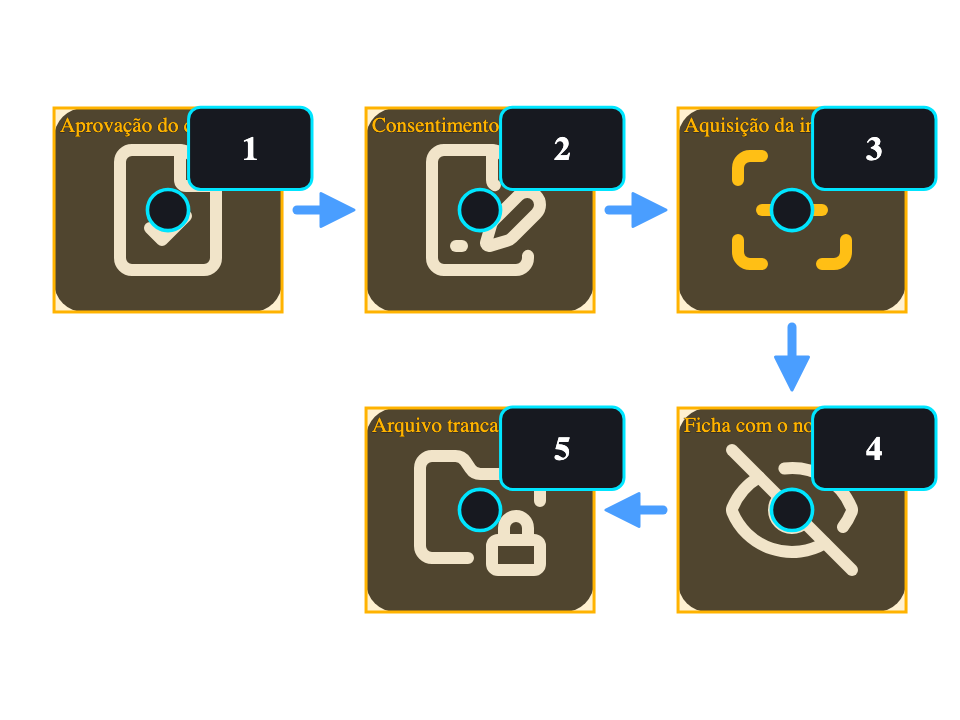
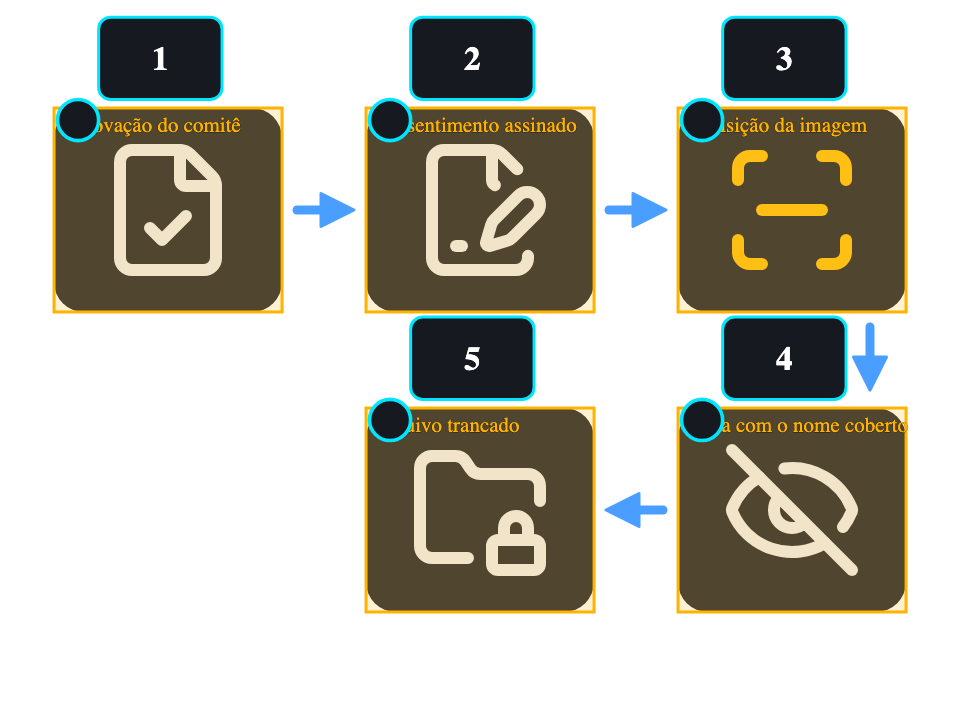
docs(figuras): parecer da fase 4, evidência corrigida e prévias refeitas

diff --git a/docs/evidence/2026-11-19-figuras/revisoes/fase-4.md b/docs/evidence/2026-11-19-figuras/revisoes/fase-4.md
@@ -1,0 +1,243 @@
+# Revisão independente da fase 4: três fluxos com ícones do Lucide (2026-11-21)
+
+Esta revisão foi feita por IA, e não por um profissional de radiologia nem por um advogado. Ela cobre os commits `e714a3a7` e `c338ee97`, sobre a base `502f445d`. Li tudo pelo git. Testei numa worktree destacada em `c338ee97`, com link simbólico de `radiant-app/node_modules`, removida ao fim.
+
+Li o brief do revisor, a gramática (`docs/content/2026-11-19-gramatica-de-graficos.md`), o parecer da fase 3 como régua de rigor e as decisões L1 a L5 (`decisoes-f4.md`).
+
+**Como medi:**
+- Os renders são meus, pelo Chrome, a 840 x 630 px (o quadro de 280 x 210 pt a 3x), sobre #171920.
+- Os selos, pontos e áreas de toque vêm das funções do próprio app (`labelBadgeBoxes`, `badgeBoxes`, `touchRect`, `LABEL_DOT` de `hotspotTouch.ts`), carregadas por `load-app-contract.cjs`.
+- A tinta foi contada por cor da paleta: `P.line` e `P.beam` para o ícone, `P.accent` para a seta.
+- Os scripts ficaram no meu rascunho, fora do repositório.
+
+## Vereditos
+
+| Figura | Veredito |
+|---|---|
+| `cadeia-de-custodia` (m31 aulas 3 e 4) | aprovada com correções a fazer (I1, I2, I3) |
+| `fluxo-de-pesquisa` (m31 aula 5) | aprovada com correções a fazer (I1, I3 no texto do crédito) |
+| `fluxo-ris-pacs` (m22 aulas 4 e 6) | aprovada com correções a fazer (I1, I3) |
+
+Contagem: 0 Críticos, 3 Importantes, 6 Menores. Há mais um ponto, anterior à fase e fora do escopo dela.
+
+## Gates (worktree em `c338ee97`, Node 20.20.2)
+
+- `rtg-lesson-lint.mjs`, arquivo por arquivo, nas 40 unidades: 40 de 40 com saída 0 (m22 e m31: `OK`).
+- `build-rtg-batches.mjs --check`: ok. `scripts/qa/figuras-no-simulador.mjs --check`: ok. `scripts/qa/generate-rtg-maestro.mjs --check` em m22 e m31: ok.
+- `node --test scripts/content/figuras/fluxos/*.test.mjs scripts/content/rtg-figuras.test.mjs`: 24 de 24.
+- Receita: rodei os três geradores (`node scripts/content/figuras/fluxos/<id>.mjs`) no checkout limpo. `git status` ficou limpo, então specs e alvos saem byte a byte.
+- `EXPO_NO_DOTENV=1 npx jest --runInBand src/ui/diagrams src/features/settings src/features/student-checkpoints src/features/lesson-flow`: 68 suítes e 1662 testes, todos passam.
+- Não rodei o `npm run quality` inteiro, o `visual:qa:strict`, `tsc` nem `eslint`.
+
+## Requisitos tardios L1 a L5
+
+### L1: quase conforme
+
+- `OPEN_LICENSE` (`scripts/content/rtg-figuras.mjs:12`) aceita `ISC`, ancorada, e só ela foi acrescentada.
+- O vermelho em `vermelho-f4.txt` é do defeito certo: `ISC` reprovada com "licença fora de CC0, domínio público e CC BY: ISC".
+- Conferi a outra metade: troquei a régua por uma versão sem âncora (`...)$|ISC`), e a asserção nova reprovou com `'ISC License'`. Depois restaurei o arquivo.
+- As três entradas estão em `figuras.json` e em `RTG_FIGURE_CREDITS`. A tela de créditos (`ImageCreditsScreen.tsx`) as lista pelo caminho de sempre.
+- Exceções: I3, M1 e M2.
+
+### L2: conforme
+
+- `vendor/lucide/` tem `LICENSE`, `README.md` e `icones.json`. Os geradores leem do repositório. Há `fluxos/README.md` e `fluxos/fluxos.test.mjs`.
+- O teste compara os sha256 com o README do próprio vendor, não com o pacote. Fiz essa conferência contra o pacote (abaixo).
+
+### L3: quase conforme
+
+- Os pontos e as regiões estão sobre os cartões.
+- As 15 frases `where` são verdadeiras sobre o desenho, e os `alt` não nomeiam respostas.
+- Os três rótulos da m31 foram renomeados, e as certas continuam "Livro de registro" e "Armário trancado".
+- O "Arquivo trancado" usa `folder-lock`.
+- O selo do `hotspot` fica fora da região e não recebe toque (`pointerEvents="none"`).
+- Exceção: no `label`, o selo e o ponto escondem justamente o detalhe que três `where` citam (I1).
+
+### L4: conforme
+
+- Os specs não têm `motion`, `keys` nem `poster`, e o teste dos fluxos barra isso.
+
+### L5: conforme
+
+- `git diff --name-only 502f445d c338ee97` não tem nenhum arquivo fora de `arquivos-do-run-f4-b.txt`.
+- `docs/STATUS.md`, os planos e o ADR não foram tocados.
+- As prévias, `fase-4.md` e o README das amostras estão atualizados.
+
+## Licença
+
+- **Página do Lucide.** Li https://lucide.dev/license. Ela traz:
+  - a ISC com "Copyright (c) 2026 Lucide Icons and Contributors";
+  - a lista dos ícones derivados do Feather;
+  - a MIT de Cole Bemis para essa lista.
+- **Pacote.** O `package.json` de `lucide-static@1.77.0` diz `"license": "ISC"` e `"version": "1.77.0"`. O `LICENSE` do pacote baixado é idêntico, byte a byte, a `vendor/lucide/LICENSE`.
+- **sha256.** Baixei os 13 SVG de `unpkg.com/lucide-static@1.77.0/icons/`. Os 13 sha256 batem com o `vendor/lucide/README.md`, e os 13 textos são iguais aos de `icones.json`. Os três `sha256Original` (concatenação na ordem do fluxo) também batem.
+- **Derivação do Feather.** Comparei com `feather-icons@4.29.2` (MIT, "Copyright (c) 2013-2023 Cole Bemis"). Quatro dos 13 ícones carregam desenho do Feather, embora não estejam nominalmente na lista (I3).
+
+## Fidelidade dos ícones
+
+- Os 13 grupos dos specs têm os mesmos elementos do original, com o texto de cada elemento idêntico (contagem e comparação de string, ícone a ícone).
+- O grupo leva os atributos do `<svg>` do Lucide: `fill="none"`, traço 2, pontas e junções redondas. Leva também `translate(centro - 24) scale(2)`.
+- Por render: os ícones originais, recoloridos e postos no mesmo lugar, contra a camada de ícones do spec, a 960 x 720. A diferença foi de 0 px nas três figuras (31.669, 28.935 e 29.113 px de tinta).
+- Só cor, escala e posição mudaram. Nada foi acrescentado ao ícone.
+
+## Achados
+
+### I1 (Importante): no `label`, o selo e o ponto escondem o detalhe que o `where` manda procurar
+
+- **Onde:** m22 aula 4 (`m22.json:1276-1311`), m31 aula 3 (`m31.json:910-945`) e m31 aula 5 (`m31.json:1658-1693`). Pontos no centro do ícone: x 0,175, 0,5 e 0,825; y 0,2917 e 0,7083.
+- **O que está errado:** o ponto de 12 pt fica no centro do ícone. O selo opaco de 36 x 24 pt fica acima e à direita do ponto, encostado (`labelBadgeBoxes`), e cobre o quadrante superior direito do ícone.
+- **Tinta de ícone sob selo e ponto, medida por cor:**
+
+  | Figura | Cartão a cartão |
+  |---|---|
+  | `fluxo-ris-pacs` | 16,3%, 20,2%, 17,3%, 17,1% e 21,4% |
+  | `cadeia-de-custodia` | 20,7%, 18,2%, 33,2%, 21,8% e 10,5% |
+  | `fluxo-de-pesquisa` | 16,9%, 9,5%, 33,2%, 21,7% e 10,5% |
+
+- **Detalhes nomeados pelo `where` que ficam cobertos** (fração geométrica, em unidades do ícone):
+  - "o caderno com **uma caneta**" (Livro de registro): quase toda a caneta fica sob o selo 4, e a ponta fica sob o ponto.
+  - "a tela com **um visto**" (Estação de visualização): cerca de 80% do visto fica sob o ponto. Sobra uma ponta de uns 3 pt.
+  - "o quadro âmbar com **uma linha no meio**" (Aquisição da imagem, duas aulas): 69% da linha fica sob o ponto, e o canto superior direito do quadro fica sob o selo 3. É o cartão mais coberto (33,2%).
+  - "a folha com um visto" (Aprovação do comitê): metade do visto e a dobra da folha ficam cobertas.
+- **O que a evidência mediu:** a evidência (`fase-4.md:36`) mediu selo contra cartão e seta ("75% do próprio cartão, 0% de outro cartão"). Não mediu selo contra ícone. O `relatorio.md` reconhece o ponto sobre o centro, mas não o selo.
+- **Cenário:** o leitor de tela fala "Ponto 4, embaixo à direita, o caderno com uma caneta". Quem olha vê um caderno sem caneta sob um selo escuro. O ícone vira um palpite, e a ordem das setas é que decide.
+- **Correção sugerida (medida por mim, só geometria):**
+  - Pôr cada ponto no canto superior esquerdo do cartão, em (x+8, y+4) unidades do quadro: (0,0813; 0,1667), (0,4063; 0,1667), (0,7312; 0,1667), (0,7312; 0,5833) e (0,4063; 0,5833), nas três aulas.
+  - O ponto fica sobre o cartão e fora do ícone. O ponto continua sobre a caixa do alvo.
+  - Os selos do app vão para fora dos cartões: no alto, em y 5,7 a 33,2; embaixo, em y 105,7 a 133,1, no vão entre as fileiras. Nenhum toca um ícone.
+  - A área de toque de 44 pt fica com uns 38% de cartão e o resto de fundo, sem tocar outro cartão.
+  - O selo do cartão 4 passa a cruzar a seta vertical (x 240,8 a 282). Por isso essa correção vai junto com a de I2.
+  - Meça de novo por pixel depois.
+
+### I2 (Importante): no `hotspot` da m31 aula 4, o selo do "Livro de registro" esconde 91% da seta que sai da imagem
+
+- **Onde:**
+  - `m31.json:1270-1316`, regiões na ordem Invólucro, Livro, Aquisição, Armário e Entrega;
+  - a seta em `scripts/content/figuras/fluxos/cadeia-de-custodia.mjs:20` (x = 264).
+- **O que está errado:** `badgeBoxes` põe o selo 2 acima do cartão do Livro, alinhado à esquerda: x 197,8 a 233,8 pt e y 95 a 119 pt, ou x 226 a 267 e y 108,6 a 136 em unidades do quadro.
+  - A seta vertical Aquisição → Livro está em x 258,5 a 269,5. Por cor, 662 dos 728 px dela ficam sob o selo (90,9%).
+  - A evidência diz "16,1% da seta [...] que continua legível" (`fase-4.md:36`). Na minha captura sobra só uma lasca da ponta, à direita do selo.
+- **Cenário:** o item pergunta pelos "dois passos que vêm depois da imagem". A seta que mostra que o Livro vem logo depois da Aquisição está escondida. O aluno ainda deduz pela serpentina, mas a figura deixa de mostrar a ligação que o item cobra.
+- **Correção sugerida:**
+  - Mover a seta vertical, no gerador comum, para x ≈ 288 (linha x1 = x2 = 288; ponta em 282,5 a 293,5).
+  - Ela continua ligando o cartão 3 ao 4, que vão de 226 a 302, e sai de baixo do selo do hotspot (226 a 267) e do selo do ponto 4 de I1 (até 282).
+  - Regenerar as três figuras e medir de novo.
+  - No `fluxo-ris-pacs` não há região sobre o cartão 4, então hoje a seta aparece inteira. Mesmo assim, a grade é uma só.
+
+### I3 (Importante): o crédito afirma "Nenhum dos ícones é derivado do Feather", e isso não se sustenta para quatro ícones
+
+- **Onde:** `content-manifest/rtg-2026/figuras.json:462, 473, 484` e `rtgImages.ts:313, 322, 331`. A frase aparece ao aluno na tela de créditos, no campo "Modificação". Também em `fase-4.md:7` e `vendor/lucide/README.md:5`, de forma literal ("não está na lista").
+- **O que está errado:** comparei com `feather-icons@4.29.2`. Três ícones vêm todos de `fluxo-ris-pacs`:
+  - `clipboard-list` contém o `clipboard` do Feather idêntico: o mesmo `path` e o mesmo `rect` 8 x 4 em (8, 2). E `clipboard` está na lista MIT do `LICENSE`.
+  - `monitor-check` contém o `monitor` do Feather idêntico: o `rect` 20 x 14 em (2, 3) e as duas linhas do pé. `monitor` também está na lista.
+  - `hard-drive` tem o mesmo contorno do Feather, só com cantos arredondados.
+
+  O quarto está na `cadeia-de-custodia`: `package` tem o contorno hexagonal do `package` do Feather, com o mesmo traçado a partir de outro ponto de início.
+- **O que vale e o que falta:**
+  - A lista do Lucide cita só o ícone base. Os compostos não aparecem nela, mas carregam o desenho base.
+  - A MIT só pede o aviso de copyright e de permissão. O `vendor/lucide/LICENSE` já o versiona.
+  - O app não mostra o aviso de Cole Bemis em lugar nenhum, e a frase do crédito é falsa para o aluno.
+  - O risco jurídico é baixo: o próprio Lucide distribui esses ícones como ISC. Mas a afirmação foi feita como fato verificado.
+- **Correção sugerida (decisão do dono):**
+  - Tirar a frase em qualquer caso.
+  - Depois, escolher uma de duas saídas:
+    - (a) acrescentar ao crédito de `fluxo-ris-pacs` e de `cadeia-de-custodia` algo como "inclui desenho do Feather, Copyright (c) 2013-present Cole Bemis, MIT" (a `license` pode continuar `ISC`);
+    - (b) trocar os quatro ícones por outros sem desenho do Feather.
+
+  Pela régua de L1 ("só ISC a mais"), a saída (a) pede o aceite expresso da MIT pelo dono.
+
+### M1 (Menor): a tela de créditos não traz o aviso de permissão da ISC nem o link da licença
+
+- **Onde:** `ImageCreditsScreen.tsx:32-41`.
+- **O que está errado:**
+  - A ISC pede que "the above copyright notice and this permission notice appear in all copies".
+  - A tela mostra "Autoria" e "Licença: ISC", e o único link vai para `sourcePage` (https://lucide.dev), não para `licenseUrl`.
+  - Segue o caminho que L1 mandou usar, por isso é Menor.
+- **Correção:** um link para `licenseUrl` (que já está no registro), ou o texto de `vendor/lucide/LICENSE` numa tela de licenças. Esse texto já inclui a MIT do Feather e resolve parte de I3.
+
+### M2 (Menor): a régua aceita ISC para qualquer entrada `acervo`, não só para ícones
+
+- **Onde:** `rtg-figuras.mjs:12`.
+- **O que está errado:** L1 diz "só ela; a regra para arte continua CC0, domínio público ou CC BY". Uma arte de acervo declarada ISC passaria.
+- **Correção:** exigir ISC junto de uma marca de conjunto de ícones, por exemplo `sourcePage` em `lucide.dev` ou um campo próprio, e acrescentar uma asserção que reprove arte ISC.
+
+### M3 (Menor): a mensagem de erro perdeu o espaço
+
+- **Onde:** `rtg-figuras.mjs:30`.
+- **O que está errado:** `...CC BY e ISC:${entry.license}` sai como "ISC:CC BY-SA 4.0".
+- **Correção:** `ISC: ${entry.license}`.
+
+### M4 (Menor): o desvio do regex de cor é inofensivo, mas a justificativa exagera
+
+- **Onde:** `diagramRegistry.test.ts:117-118`; `fase-4.md` ("sem aceitar cor fora da paleta").
+- **O que está errado:** a régua das figuras importadas nunca conferiu a paleta, só o formato. Antes ela já aceitava qualquer `#rrggbb` em minúsculas, e o `/i` só acrescenta as maiúsculas. Não abre porta nova.
+  - Quem barra cor fora da paleta nos fluxos é o `fluxos.test.mjs`: nenhum hexadecimal literal nas camadas, só `${P.*}`.
+  - A régua das figuras desenhadas, que confere a paleta, não mudou.
+- **Correção:** só a frase da evidência. Desvio aceito.
+
+### M5 (Menor): três ícones e textos não casam bem com o nome do passo
+
+- "Armário trancado" (cadeia) é desenhado como `folder-lock`. O `where` diz "a pasta com um cadeado". O aluno acha por eliminação, mas o desenho é uma pasta, não um armário.
+- Na m31 aula 5, a explicação diz "Neste esquema, a ficha do dado leva o nome coberto" (`m31.json:1612`), e o esquema mostra um olho riscado.
+- "o disco de armazenamento" descreve um gabinete de HD, sem disco à vista.
+
+Nenhum desses erra a resposta. Sugestão: na m31 aula 5, "Neste esquema, o olho riscado marca a ficha do dado com o nome coberto". O resto fica opcional.
+
+### M6 (Menor): as três figuras têm o mesmo `alt`, e na tela de créditos as três "Ilustração N" ficam indistinguíveis
+
+- **Onde:** `cadeia-de-custodia.mjs:79`, `rtgImages.ts`.
+- **O que está errado:** o `alt` não nomeia resposta, e isso está certo. Mas quem lê os créditos não sabe qual cartão é de qual figura.
+- **Correção:** um `alt` por figura com o tema e sem os passos. Por exemplo, "Fluxo de cinco cartões com ícones, do pedido à tela de visualização, ligados por setas: ...". O tema já está no enunciado das aulas.
+
+### Fora do escopo (anterior à fase)
+
+- A m31 aula 4 pede "Toque nos **dois** passos" (`m31.json:1270`), mas o `hotspot` aceita uma só seleção. Qualquer uma das duas regiões certas fecha o item (`InteractionAnswerValue.ts:277-278`).
+- O enunciado não mudou nesta fase. Registro aqui para quem cuidar da m31.
+
+## Alvos e área de toque (medido por pixel)
+
+- **Rotular (5 x 3 pontos):** a área de toque de 44 pt de cada ponto cai 100% no próprio cartão, com 0% de outro cartão, seta ou fundo. Cada ponto está sobre o cartão que o rótulo nomeia. O problema é o que fica sob selo e ponto (I1).
+- **Tocar (m22 aula 6 e m31 aula 4):** a área de toque é o próprio cartão (76 x 68 é maior que 44 pt), com 100% do cartão nomeado e 0% de outro cartão, seta ou fundo. A região não foi inflada.
+  - A área certa (Estação; Livro e Armário) não cobre cartão de resposta errada.
+  - Na m22, o erro típico ("Arquivo de imagens", o que parou) não tem região, então não pode ser escolhido. Isso já era assim antes.
+  - Nos dois itens de toque, o selo fica fora da região, com 0% de tinta de ícone sob ele. A exceção é a seta de I2.
+
+## Itens alterados
+
+- **m22 aula 4 (`label`):**
+  - Continua válido. As cinco respostas são as mesmas e a ordem (cadastro, lista de trabalho, equipamento, arquivo e estação) é a ensinada na explicação da aula.
+  - As cinco `where` são verdadeiras sobre o desenho e não nomeiam o passo.
+  - O que muda para o aluno: os ícones são genéricos (sem tubo, mesa nem paisagem). O item passa a cobrar a leitura do ícone mais a ordem das setas.
+  - **Recomendação:** manter, com a correção de I1.
+- **m22 aula 6 (`hotspot`):**
+  - Continua válido. A certa continua "Estação de visualização", e a ajuda "Siga a seta que sai do arquivo de imagens" bate com a seta 4 → 5.
+  - **Recomendação:** manter como está.
+- **m31 aula 3 (`label`):**
+  - Continua válido, com as coordenadas iguais.
+  - "o pacote fechado" perdeu "com uma etiqueta", e com razão: o ícone não tem etiqueta.
+  - **Recomendação:** manter, com a correção de I1 (caneta e linha do meio).
+- **m31 aula 4 (`hotspot`):**
+  - Os três rótulos renomeados ("Aquisição da imagem", "Entrega assinada", "Armário trancado") são os nomes declarados e não mudam a resposta: as certas continuam Livro e Armário.
+  - O retorno "Essa região vem antes ou durante a imagem" vale para as três erradas.
+  - **Recomendação:** manter, com a correção de I2.
+- **m31 aula 5 (`label`):**
+  - Continua válido, com as coordenadas iguais.
+  - **Recomendação:** manter, com a correção de I1 (a linha da aquisição e o visto da aprovação) e a frase de M5.
+- **`alt` das três figuras:** não nomeia resposta. Ver M6.
+
+## O que o dono deve olhar no simulador
+
+1. m31 aula 3: dá para ver a caneta do "Livro de registro" e a linha da "Aquisição da imagem" com os selos 3 e 4 no lugar?
+2. m22 aula 4: dá para ver o visto da "Estação de visualização" sob o ponto?
+3. m31 aula 5: aparecem a linha da aquisição e o visto da aprovação?
+4. m31 aula 4: a seta da Aquisição para o Livro aparece, ou some sob o selo 2?
+5. Ajustes → Créditos das imagens: as três ilustrações novas, o texto "Nenhum dos ícones é derivado do Feather" (I3) e se o link leva à licença.
+
+## O que não consegui verificar
+
+- O `npm run quality` inteiro, o `visual:qa:strict`, `tsc` e `eslint`.
+- O app rodando: não rodei simulador, e a fala do VoiceOver ficou sem conferir.
+- A interpretação jurídica da ISC e da MIT sobre os ícones compostos: é leitura de IA, não parecer jurídico.
+- O histórico de cada ícone no repositório do Lucide (autores e data de redesenho). Comparei só com o `feather-icons@4.29.2` publicado.
+- As frações de caneta, visto e linha sob selo e ponto em I1 são geométricas, nas coordenadas do ícone. Os totais por cartão são contagem de pixel.
+- A posição sugerida em I1 e I2 foi conferida só por geometria (`labelBadgeBoxes` e `touchRect` do app), sem render.

diff --git a/docs/evidence/2026-11-19-figuras/fase-4.md b/docs/evidence/2026-11-19-figuras/fase-4.md
@@ -1,44 +1,50 @@
-# Fase 4: três fluxos com ícones do Lucide (integração de 2026-11-21)
+# Fase 4: três fluxos com ícones do Lucide (integração de 2026-11-21, corrigida no mesmo dia)
 
-Aprovada pelo dono em 2026-11-21 ("Aceito a ISC"), depois da amostra de 2026-11-20 ([`amostras-fases-3-4/`](amostras-fases-3-4/README.md)). Cada fluxo substitui o spec de mesmo `id`: cinco cartões em serpentina, um ícone do Lucide v1.77.0 em cada, setas cheias, quadro 320 x 240, parados (todos têm área de toque). Gerador, ícones e licença: `scripts/content/figuras/fluxos/` e `scripts/content/figuras/vendor/lucide/`. Prévias com os marcadores do app a 280 pt em [`fase-4/`](fase-4/) (todas abaixo de 60 KiB).
+Aprovada pelo dono em 2026-11-21 ("Aceito a ISC"), depois da amostra de 2026-11-20 ([`amostras-fases-3-4/`](amostras-fases-3-4/README.md)). Cada fluxo substitui o spec de mesmo `id`: cinco cartões em serpentina, um ícone do Lucide v1.77.0 em cada, setas cheias, quadro 320 x 240, parados (todos têm área de toque). Gerador, ícones e licença: `scripts/content/figuras/fluxos/` e `scripts/content/figuras/vendor/lucide/`. Prévias com os marcadores do app a 280 pt em [`fase-4/`](fase-4/) (todas abaixo de 60 KiB), refeitas depois da correção. Revisão independente: [`revisoes/fase-4.md`](revisoes/fase-4.md) (0 Críticos, 3 Importantes, 6 Menores); as correções estão abaixo e o relatório linha a linha está em `.superpowers/sdd/2026-11-20-figuras-fases-2-6/correcao-f4-relatorio.md` (fora do git).
 
 ## Licença: o que mudou
 
-- Lucide: licença **ISC**, Copyright (c) 2026 Lucide Icons and Contributors (https://lucide.dev/license). Nenhum dos 13 ícones usados está na lista dos derivados do Feather (MIT). O texto do pacote está em `vendor/lucide/LICENSE`, sem alteração.
-- A régua `OPEN_LICENSE` de `scripts/content/rtg-figuras.mjs` passou a aceitar `ISC`, e só ela além de CC0, domínio público e CC BY. Quem a verifica é `scripts/content/rtg-figuras.test.mjs` (não o `diagramRegistry.test.ts`, que não tem checagem de licença). Asserção nova: `ISC` passa; `ISC License`, `ISC-like`, `ISC, com restrição`, CC BY-SA, CC BY-NC e CC BY-ND continuam barradas. Vista falhando antes da mudança, com a mensagem "licença fora de CC0, domínio público e CC BY: ISC" (execução vermelha guardada em `.superpowers/sdd/2026-11-20-figuras-fases-2-6/vermelho-f4.txt`, fora do git).
+- Lucide: licença **ISC**, Copyright (c) 2026 Lucide Icons and Contributors (https://lucide.dev/license). O texto do pacote está em `vendor/lucide/LICENSE`, sem alteração.
+- **Origem Feather (parecer I3, decisão M3 do controlador).** A primeira versão afirmava "Nenhum dos ícones é derivado do Feather", e isso era falso para quatro: `clipboard-list`, `monitor-check` e `hard-drive` (m22) e `package` (m31) carregam o desenho de `clipboard`, `monitor`, `hard-drive` e `package` do Feather (MIT). Foram trocados por `file-pen`, `laptop-minimal-check`, `images` e `cuboid`. Conferência de cada um dos 13 ícones atuais, em 2026-11-21: (a) nenhum está na lista dos derivados do `LICENSE`; (b) nenhum elemento é igual a elemento do `feather-icons` 4.29.2 (`dist/icons.json`, comparação por atributo); (c) por render a 96 px, nenhum cobre o desenho de um ícone complexo do Feather (os quatro antigos cobrem 100% do ícone do Feather; os quatro novos ficam em 0,94 ou menos, e só sobre contornos genéricos de arquivo e de quadro; `file-check` cobre 0,99 do contorno de folha do `file-minus`, o que o parecer já tinha aceitado); (d) a página de cada ícone no repositório do Lucide (`icons/<nome>.json`, v1.77.0) não lista contribuidor do Feather nos quatro novos (`file-pen`: karsa-mistmere, danielbayley; `laptop-minimal-check`: ericfennis, jguddas; `cuboid`: danielbayley, karsa-mistmere; `images`: karsa-mistmere). O pacote e o jsDelivr dão o mesmo sha256 para os quatro. Sobram as ressalvas de que isso é leitura de IA, não parecer jurídico, e de que `eye-off` (contribuidores incluem o autor do Feather, sem elemento igual nem entrada na lista) segue como estava, com a conferência acima. A frase saiu dos três créditos de `figuras.json` (campo "Modificação"), que agora dizem só o que os ícones são, e o `sha256Original` de `cadeia-de-custodia` e de `fluxo-ris-pacs` foi recalculado (o de `fluxo-de-pesquisa` não mudou: mesmos ícones). Guarda nova em `fluxos.test.mjs`: nenhum ícone usado está na lista do `LICENSE`, os quatro antigos não voltam e o registro não cita Feather. Vista falhando com `package` de volta (mensagem "package contém desenho do Feather", em `vermelho-f4-b.txt`).
+- A régua `OPEN_LICENSE` de `scripts/content/rtg-figuras.mjs` continua CC0, domínio público e CC BY, e `ISC` vale só quando a `sourcePage` da entrada é `lucide.dev` (parecer M2: antes a ISC valia para qualquer entrada `acervo`). Quem a verifica é `scripts/content/rtg-figuras.test.mjs` (não o `diagramRegistry.test.ts`, que não tem checagem de licença). Asserções: ISC do Lucide passa; ISC de outra página, sem página ou com `lucide.dev` só no começo do domínio (`lucide.dev.exemplo.com`) reprova; `ISC License`, `ISC-like`, `ISC, com restrição`, CC BY-SA, CC BY-NC e CC BY-ND continuam barradas. A mensagem tinha perdido o espaço ("ISC:CC BY-SA") e agora é "licença fora de CC0, domínio público, CC BY e ISC (só do Lucide): <licença>" (M3). Vermelho de cada defeito em `.superpowers/sdd/2026-11-20-figuras-fases-2-6/vermelho-f4.txt` (régua de ISC) e `vermelho-f4-b.txt` (ISC com outra página aceita, antes de apertar a régua), fora do git.
 - Registro: três entradas `acervo` em `content-manifest/rtg-2026/figuras.json`, com autor "Lucide Icons and Contributors (Copyright (c) 2026)", licença `ISC`, página https://lucide.dev e licença https://lucide.dev/license. O `sha256Original` é o da concatenação dos cinco SVG originais do pacote, na ordem do fluxo. O crédito sai pela tela de créditos que já lê o registro (`RTG_FIGURE_CREDITS`); o texto em maiúsculas não passou do teto de `copy-style-baseline.json`, que não mudou.
 
-- Uma régua do teste do registro mudou junto: a de cor das figuras importadas (`diagramRegistry.test.ts`) deixou de distinguir maiúscula de minúscula no hexadecimal, porque `P.accent` é `#4A9EFF` e as outras figuras importadas vêm em minúsculas. É afrouxamento de forma, sem aceitar cor fora da paleta.
+- Uma régua do teste do registro mudou junto: a de cor das figuras importadas (`diagramRegistry.test.ts`) deixou de distinguir maiúscula de minúscula no hexadecimal, porque `P.accent` é `#4A9EFF` e as outras figuras importadas vêm em minúsculas. Correção de texto desta evidência (parecer M4): essa régua das figuras importadas nunca conferiu a paleta, só o formato `#rrggbb`, e o `/i` só acrescenta as maiúsculas, sem abrir porta nova. Quem barra cor fora da paleta nos fluxos é o `fluxos.test.mjs` (nenhum hexadecimal literal nas camadas, só `${P.*}`).
 
 ## Figuras que entraram
 
 | Figura | Unidade | Ícones (Lucide 1.77.0) | SVG | Camadas |
 |---|---|---|---|---|
-| `cadeia-de-custodia` | m31 aulas 3 (rotular) e 4 (tocar) | package, handshake, scan-line, notebook-pen, folder-lock | 3,02 KiB | 3 |
-| `fluxo-de-pesquisa` | m31 aula 5 (rotular) | file-check, file-signature, scan-line, eye-off, folder-lock | 3,00 KiB | 3 |
-| `fluxo-ris-pacs` | m22 aulas 4 (rotular) e 6 (tocar) | clipboard-list, list-checks, radiation, hard-drive, monitor-check | 2,93 KiB | 3 |
+| `cadeia-de-custodia` | m31 aulas 3 (rotular) e 4 (tocar) | cuboid, handshake, scan-line, notebook-pen, folder-lock | 4,2 KiB (.ts) | 3 |
+| `fluxo-de-pesquisa` | m31 aula 5 (rotular) | file-check, file-signature, scan-line, eye-off, folder-lock | 4,2 KiB (.ts) | 3 |
+| `fluxo-ris-pacs` | m22 aulas 4 (rotular) e 6 (tocar) | file-pen, list-checks, radiation, images, laptop-minimal-check | 4,1 KiB (.ts) | 3 |
 
-Os specs antigos tinham de 5 a 7 camadas e de 2,6 a 4,1 KiB. O ícone do "Arquivo trancado" passou de `vault` a `folder-lock`, para o cadeado aparecer. Só o passo de imagem é âmbar (`P.beam`). Perda assumida: os ícones são mais genéricos que os desenhos antigos (sem tubo, mesa nem paisagem), e por isso as frases de localização das aulas mudaram.
+Os specs antigos tinham de 5 a 7 camadas e de 2,6 a 4,1 KiB de SVG. O ícone do "Arquivo trancado" passou de `vault` a `folder-lock`, para o cadeado aparecer. Só o passo de imagem é âmbar (`P.beam`). Perda assumida: os ícones são mais genéricos que os desenhos antigos (sem tubo, mesa nem paisagem), e por isso as frases de localização das aulas mudaram. A seta vertical (cartão 3 para o 4) passou de x = 264 a x = 290 no gerador comum (parecer I2), e o `alt` de cada figura ganhou o tema (parecer M6: "Fluxo da cadeia de custódia", "Fluxo de um estudo de pesquisa", "Fluxo do pedido de um exame"), sem nomear passo.
 
 ## Itens alterados (antes e depois em `.superpowers/.../itens-alterados-f4.md`, fora do git)
 
-- m22 aula 4, `label` do fluxo RIS-PACS: cinco pontos novos (a grade de 76 x 68 substituiu a de 68 x 68) e cinco `where` sem "bloco com...".
+- m22 aula 4, `label` do fluxo RIS-PACS: cinco pontos novos (a grade de 76 x 68 substituiu a de 68 x 68) e `where` sem "bloco com..."; depois da revisão, pontos no canto superior esquerdo do cartão (I1) e três `where` novos pelos ícones trocados: "a folha com uma caneta", "duas molduras de imagem sobrepostas" e "o notebook com um visto na tela".
 - m22 aula 6, `hotspot` do mesmo fluxo: quatro regiões em caixa justa do cartão (largura 0,2125 -> 0,2375).
-- m31 aula 3, `label` da cadeia: cinco `where` novos; coordenadas iguais.
+- m31 aula 3, `label` da cadeia: cinco `where` novos e, depois da revisão, pontos no canto do cartão (I1) e "a caixa fechada" no lugar de "o pacote fechado".
 - m31 aula 4, `hotspot` da cadeia: três rótulos de região passam aos nomes declarados ("Aparelho de imagem" -> "Aquisição da imagem", "Prancheta assinada" -> "Entrega assinada", "Armário com cadeado" -> "Armário trancado"), sem mudar quais são as certas.
-- m31 aula 5, `label` do fluxo de pesquisa: cinco `where` novos; coordenadas iguais.
+- m31 aula 5, `label` do fluxo de pesquisa: cinco `where` novos e, depois da revisão, pontos no canto do cartão (I1); o texto do conceito passou a dizer "o olho riscado marca a ficha do dado com o nome coberto", como o desenho (M5).
 - O `alt` das três figuras deixou de nomear os passos. Nenhuma pergunta nem resposta certa mudou; todo ponto e região sobre as três figuras ganhou o campo `alvo`.
+- Não mexidos, por exigirem arquivo fora do run ou mudarem a pergunta: o link da licença na tela de créditos (M1, `ImageCreditsScreen.tsx`) e o enunciado "dois passos" do hotspot da m31 aula 4 (fora do escopo do parecer).
 
-## Medidas de área de toque e de selo (geometria, repetida pelo `alvos.mjs` da amostra)
+## Medidas de área de toque e de selo (por pixel, refeitas em 2026-11-21 depois da correção)
 
-- **Rotular (pontos):** o ponto fica no centro do cartão, e a área de toque de 44 pt (0,157 x 0,21 do quadro, 50,2 x 50,4 unidades) cabe inteira dentro do cartão de 76 x 68: 100% é o cartão da resposta certa (fundo do cartão e o ícone de 48 x 48), 0% de outro cartão e 0% de seta.
-- **Tocar (regiões):** a região é a caixa do cartão (76 x 68, maior que 50 x 50), então a área de toque é o próprio cartão: 100% da estrutura nomeada, 0% de cartão de resposta errada. Nenhuma região foi inflada.
-- **Selo do app:** nos pontos, o selo cobre 75% do próprio cartão (canto superior direito), 0% de outro cartão e 0% de seta; nas regiões, o selo fica fora da região (0% dentro), sem tocar outro cartão, e só um cobre seta (16,1% da seta do aparelho de imagem ao livro de registro, que continua legível).
+Método: render de cada figura a 840 x 630 px (280 x 210 pt a 3x) no Chrome; tinta de ícone = pixels P.line e P.beam sobre cartão, seta = P.accent; selo, ponto e área de toque vêm das funções do app (`labelBadgeBoxes`, `badgeBoxes`, `touchRect`, `LABEL_DOT` de `hotspotTouch.ts`). O medidor reproduziu os números do parecer quando alimentado com os pontos antigos (cadeia: 21,0 / 18,7 / 33,5 / 22,2 / 9,8% contra 20,7 / 18,2 / 33,2 / 21,8 / 10,5% do parecer).
+
+- **Rotular (pontos), I1:** os pontos foram para o canto superior esquerdo do cartão, em (x+8, y+4) unidades: (0,0813; 0,1667), (0,4063; 0,1667), (0,7313; 0,1667), (0,7313; 0,5833) e (0,4063; 0,5833). **Tinta de ícone sob selo e ponto: 0,0% nos 15 cartões** (antes, de 9,5% a 33,2%), nas três figuras. Seta sob selo ou ponto: 0,0%.
+- **Área de toque dos pontos:** 37,4 a 37,9% é o cartão da resposta certa, 0,0% de outro cartão, 0,0 a 0,1% de seta e o resto é fundo (62%). O ponto continua sobre o cartão que o rótulo nomeia.
+- **Tocar (regiões), I2:** a região é a caixa do cartão (76 x 68, maior que 44 pt), a área de toque é o próprio cartão: 98,9% cartão da região certa, 1,1% fundo, 0,0% de outro cartão e 0,0% de seta. Nenhuma região foi inflada.
+- **Selo do app nas regiões:** 0% dentro da região, 0% sobre qualquer cartão e **0,0% da seta** (2.842 px) em m31 aula 4 e em m22 aula 6. A seta do Livro de registro, que a primeira versão dizia estar 16,1% coberta, estava na verdade 90,9% coberta pelo selo (parecer I2); com a seta em x = 290, o selo do Livro (x 226 a 267) e o do ponto 4 do `label` (até 282) ficam à esquerda dela.
+- Guarda no `fluxos.test.mjs` (selo e ponto do app contra seta e ícone, e ponto sobre o cartão e fora do ícone): vista falhando com a seta de volta a x = 264 ("o selo 4 esconde uma seta") e com os pontos de volta ao centro ("o selo 1 esconde um ícone"), em `vermelho-f4-b.txt`.
 
 ## Números de teste (Node 20.20.2, medidos em 2026-11-21)
 
-- Verificador nas 40 unidades: todas OK. `--check` de `build-rtg-batches.mjs`, de `generate-rtg-maestro.mjs` (m22, m31) e de `figuras-no-simulador.mjs` (62 ids, 5 roteiros novos: m22 aulas 4 e 6, m31 aulas 3, 4 e 5): ok.
-- `node --test` de `scripts/content`, `scripts/qa`, `scripts/content/figuras` e `fluxos`: 485 testes, 484 passam e 1 falha, a conhecida e alheia `registerSource normalizes metadata for the pilot book`.
-- Jest de `src/ui/diagrams`, `lesson-flow` e `student-checkpoints`: 66 suítes, 1635 testes, todos passam; `tsc --noEmit` e `eslint` nos arquivos tocados: saída 0; `test:maestro-contract`: 13 de 13; `docs-contract`: passa; `copy-style-contract`: 65 de 65, sem subir o teto.
-- Gate completo `EXPO_NO_DOTENV=1 CI=1 npm run quality`: 297 suítes, 4611 testes, `visual:qa:strict` sem regressão.
-- Peso: as três figuras somam 9,0 KiB de SVG; o teto total do teste do registro (8.116.109 bytes) segue passando, e o de 240 KiB por figura também.
+- Verificador nas 40 unidades: todas OK (saída 0 em cada arquivo). `--check` de `build-rtg-batches.mjs`, de `generate-rtg-maestro.mjs` (m22, m31) e de `figuras-no-simulador.mjs`: ok.
+- `node --test scripts/content/*.test.mjs scripts/qa/*.test.mjs scripts/content/figuras/*.test.mjs scripts/content/figuras/fluxos/*.test.mjs`: 490 testes, 488 passam, 1 falha (a conhecida e alheia `registerSource normalizes metadata for the pilot book`) e 1 ignorado.
+- Jest de `src/ui/diagrams`, `lesson-flow` e `student-checkpoints`: 66 suítes, 1635 testes, todos passam; `tsc --noEmit` e `eslint` nos arquivos tocados: saída 0; `test:maestro-contract`: 13 de 13; `test:copy-style-contract`: 65 de 65; `docs-contract`: passa.
+- O gate completo `npm run quality` e o `visual:qa:strict` foram medidos na integração (297 suítes, 4611 testes, sem regressão) e **não foram repetidos** depois desta correção.
+- Peso: os três specs somam 12,5 KiB (.ts); os tetos do teste do registro (total e 240 KiB por figura) seguem passando no jest acima.

diff --git a/docs/evidence/2026-11-19-figuras/amostras-fases-3-4/README.md b/docs/evidence/2026-11-19-figuras/amostras-fases-3-4/README.md
@@ -17,6 +17,8 @@ Amostra: `espectro-de-raios-x`, `relaxacao-t1-t2` (animado) e `circuito-do-gerad
 
 **Atualização de 2026-11-21: a fase 4 foi aprovada pelo dono ("Aceito a ISC") e produzida.** Os três fluxos entraram no app com ícones do Lucide v1.77.0 (licença ISC, aceita só para ícones de conjunto aberto), as aulas m22 e m31 foram ajustadas e a evidência está em [`../fase-4.md`](../fase-4.md). O texto abaixo é o da amostra, de 2026-11-20, e fica como histórico.
 
+**Correção de 2026-11-21, depois da revisão independente ([`revisoes/fase-4.md`](../revisoes/fase-4.md)):** quatro ícones da amostra continham desenho do Feather (MIT) e foram trocados: `clipboard-list` por `file-pen`, `monitor-check` por `laptop-minimal-check`, `package` por `cuboid` e `hard-drive` por `images`. Os `fase4-*.png` desta pasta mostram os ícones antigos; as prévias atuais estão em [`../fase-4/`](../fase-4/).
+
 Três fluxos refeitos com cinco cartões em serpentina, um ícone do Lucide v1.77.0 em cada, setas cheias e a mesma grade, 3 camadas e cerca de 3 KiB cada (os atuais têm 5 a 7 camadas):
 
 - [`fase4-cadeia-de-custodia.png`](fase4-cadeia-de-custodia.png) (m31, lição 3 rotular e lição 4 tocar)
